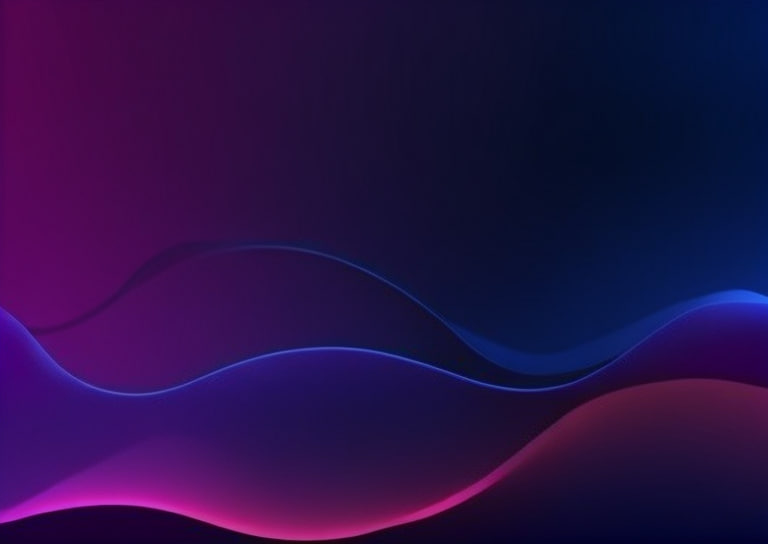
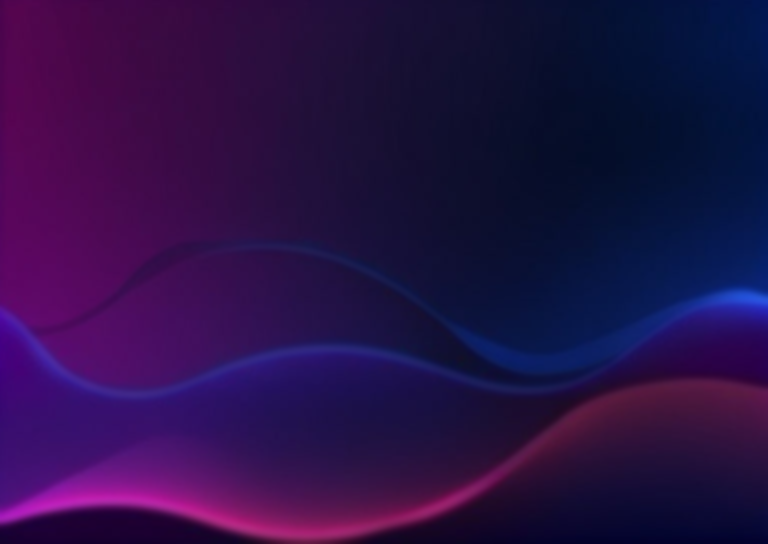
src modified

diff --git a/src/assets/main.css b/src/assets/main.css
@@ -14,6 +14,8 @@
 	--standart-transition: .5s ease-in-out;
 	
 	--icon-size: 30px;
+
+	--page-height: 2000px;
 }
 
 svg {
@@ -26,54 +28,28 @@ html {
 }
 
 html, body {
-	height: 100%;
+	height: var(--page-height);
 }
 
 body {
-	/* background: linear-gradient(-45deg, #07396f, #674361); */
-	/* background: linear-gradient(-45deg, #2E236C, #17153B, #433D8B, #C8ACD6); */
-	background-repeat: no-repeat;
-	background-size: 200% 200%;
+	background-image: url("/public/img/bg-4.png");
+	background-repeat: repeat-y;
 	background-attachment: fixed;
-	animation: gradient 5s ease infinite;
-
-	backdrop-filter: blur(125px);
-	background-image: url("/public/img/bg.png");
+	backdrop-filter: blur(50px);
+	background-size: cover;
+	animation: moving 35s linear infinite;
+	animation-fill-mode: forwards;
 }
 
-@keyframes gradient {
+@keyframes moving {
 	0% {
-		background-position: 0% 50%;
-	}
-
-	25% {
-		background-position: 50% 25%;
-	}
-
-	50% {
-		background-position: 100% 50%;
-	}
-
-	75% {
-		background-position: 50% 90%;
+		background-position: 0% 0%;
 	}
 
 	100% {
-		background-position: 0% 50%;
+		background-position: 0% 300%;
 	}
 }
-
-/* @keyframes gradient {
-	0% {
-		background-position: 0% 50%;
-	}
-	50% {
-		background-position: 100% 50%;
-	}
-	100% {
-		background-position: 0% 50%;
-	}
-} */
 
 input,
 select,

diff --git a/src/components/common/Header.vue b/src/components/common/Header.vue
@@ -7,6 +7,7 @@
   <header>
     <div class="branding">
       <img src="/public/img/logo.png" alt="logo">
+
       <p>ЛАНВЕР</p>
     </div>
 
@@ -22,7 +23,6 @@
 
 <style scoped>
   header {
-    
     display: flex;
     justify-content: space-between;
     align-items: center;
@@ -47,13 +47,19 @@
     }
 
     nav {
+      position: relative;
+
       display: flex;
       justify-content: space-between;
       align-items: center;
 
       width: 450px;
+      height: 75px;
       padding: 0 25px;
       border-radius: 15px;
+      border: 1px solid white;
+      backdrop-filter: blur(10px);
+      -webkit-backdrop-filter: blur(10px);
     }
 
       nav > * {

diff --git a/src/components/AnimatedWires.vue b/src/components/AnimatedWires.vue
@@ -1,10 +1,8 @@
 <template>
-  <div class="wrapper">
-    <div class="lines">
+  <div class="lines">
     <div class="line"></div>
     <div class="line"></div>
     <div class="line"></div>
-  </div>
   </div>
 </template>
 
@@ -22,7 +20,7 @@
   .line {
     position: absolute;
     width: 1px;
-    height: 100%;
+    height: inherit;
     left: 50%;
     background: rgba(255, 255, 255, 0.1);
     overflow: hidden;

diff --git a/src/views/TechView.vue b/src/views/TechView.vue
@@ -26,13 +26,13 @@
 <style scoped>
   .root {
     position: relative;
-    height: 2000px;
+    /* height: 2000px; */
 
     background: rgba(224, 255, 255, 0.422);
     border-radius: 15px;
   }
 
-    .appear-block {
+    /* .appear-block {
       display: flex;
       justify-content: center;
 
@@ -57,5 +57,5 @@
       width: 100%;
       height: 600px;
       top: 850px;
-    }
+    } */
 </style>

diff --git a/src/views/HomeView.vue b/src/views/HomeView.vue
@@ -5,7 +5,7 @@
 
   setTimeout(() => {
     contentShow.value = true;
-  }, 500);
+  }, 350);
 </script>
 
 <template>
@@ -19,7 +19,7 @@
     </header>
 
     <section class="local-content">
-      
+      Something
     </section>
   </div>
 </template>
